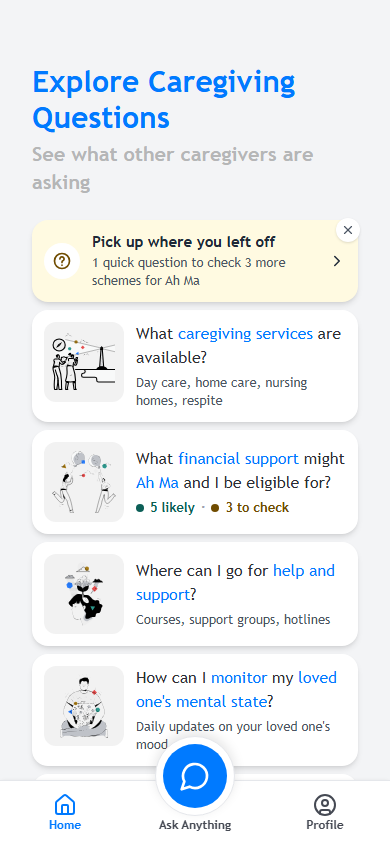
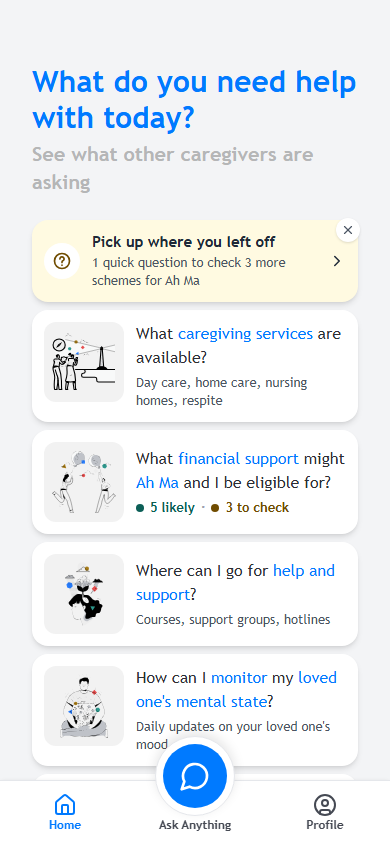
feat(frontend): home heading "What do you need help with today?"
Update the step 6 screenshots to match.

Changed region(s): [[0.0923, 0.0616, 0.9231, 0.154]]

diff --git a/frontend/src/app/home/page.tsx b/frontend/src/app/home/page.tsx
@@ -187,7 +187,7 @@ export default function Home() {
       <div className="flex h-full max-h-[512px] w-full flex-col place-content-between">
         <div className="mb-6 flex flex-col gap-1">
           <h1 className="text-3xl font-bold text-brand-primary-500">
-            Explore Caregiving Questions
+            What do you need help with today?
           </h1>
           <span className="text-xl font-bold text-[rgb(128,128,128,0.55)]">
             See what other caregivers are asking
